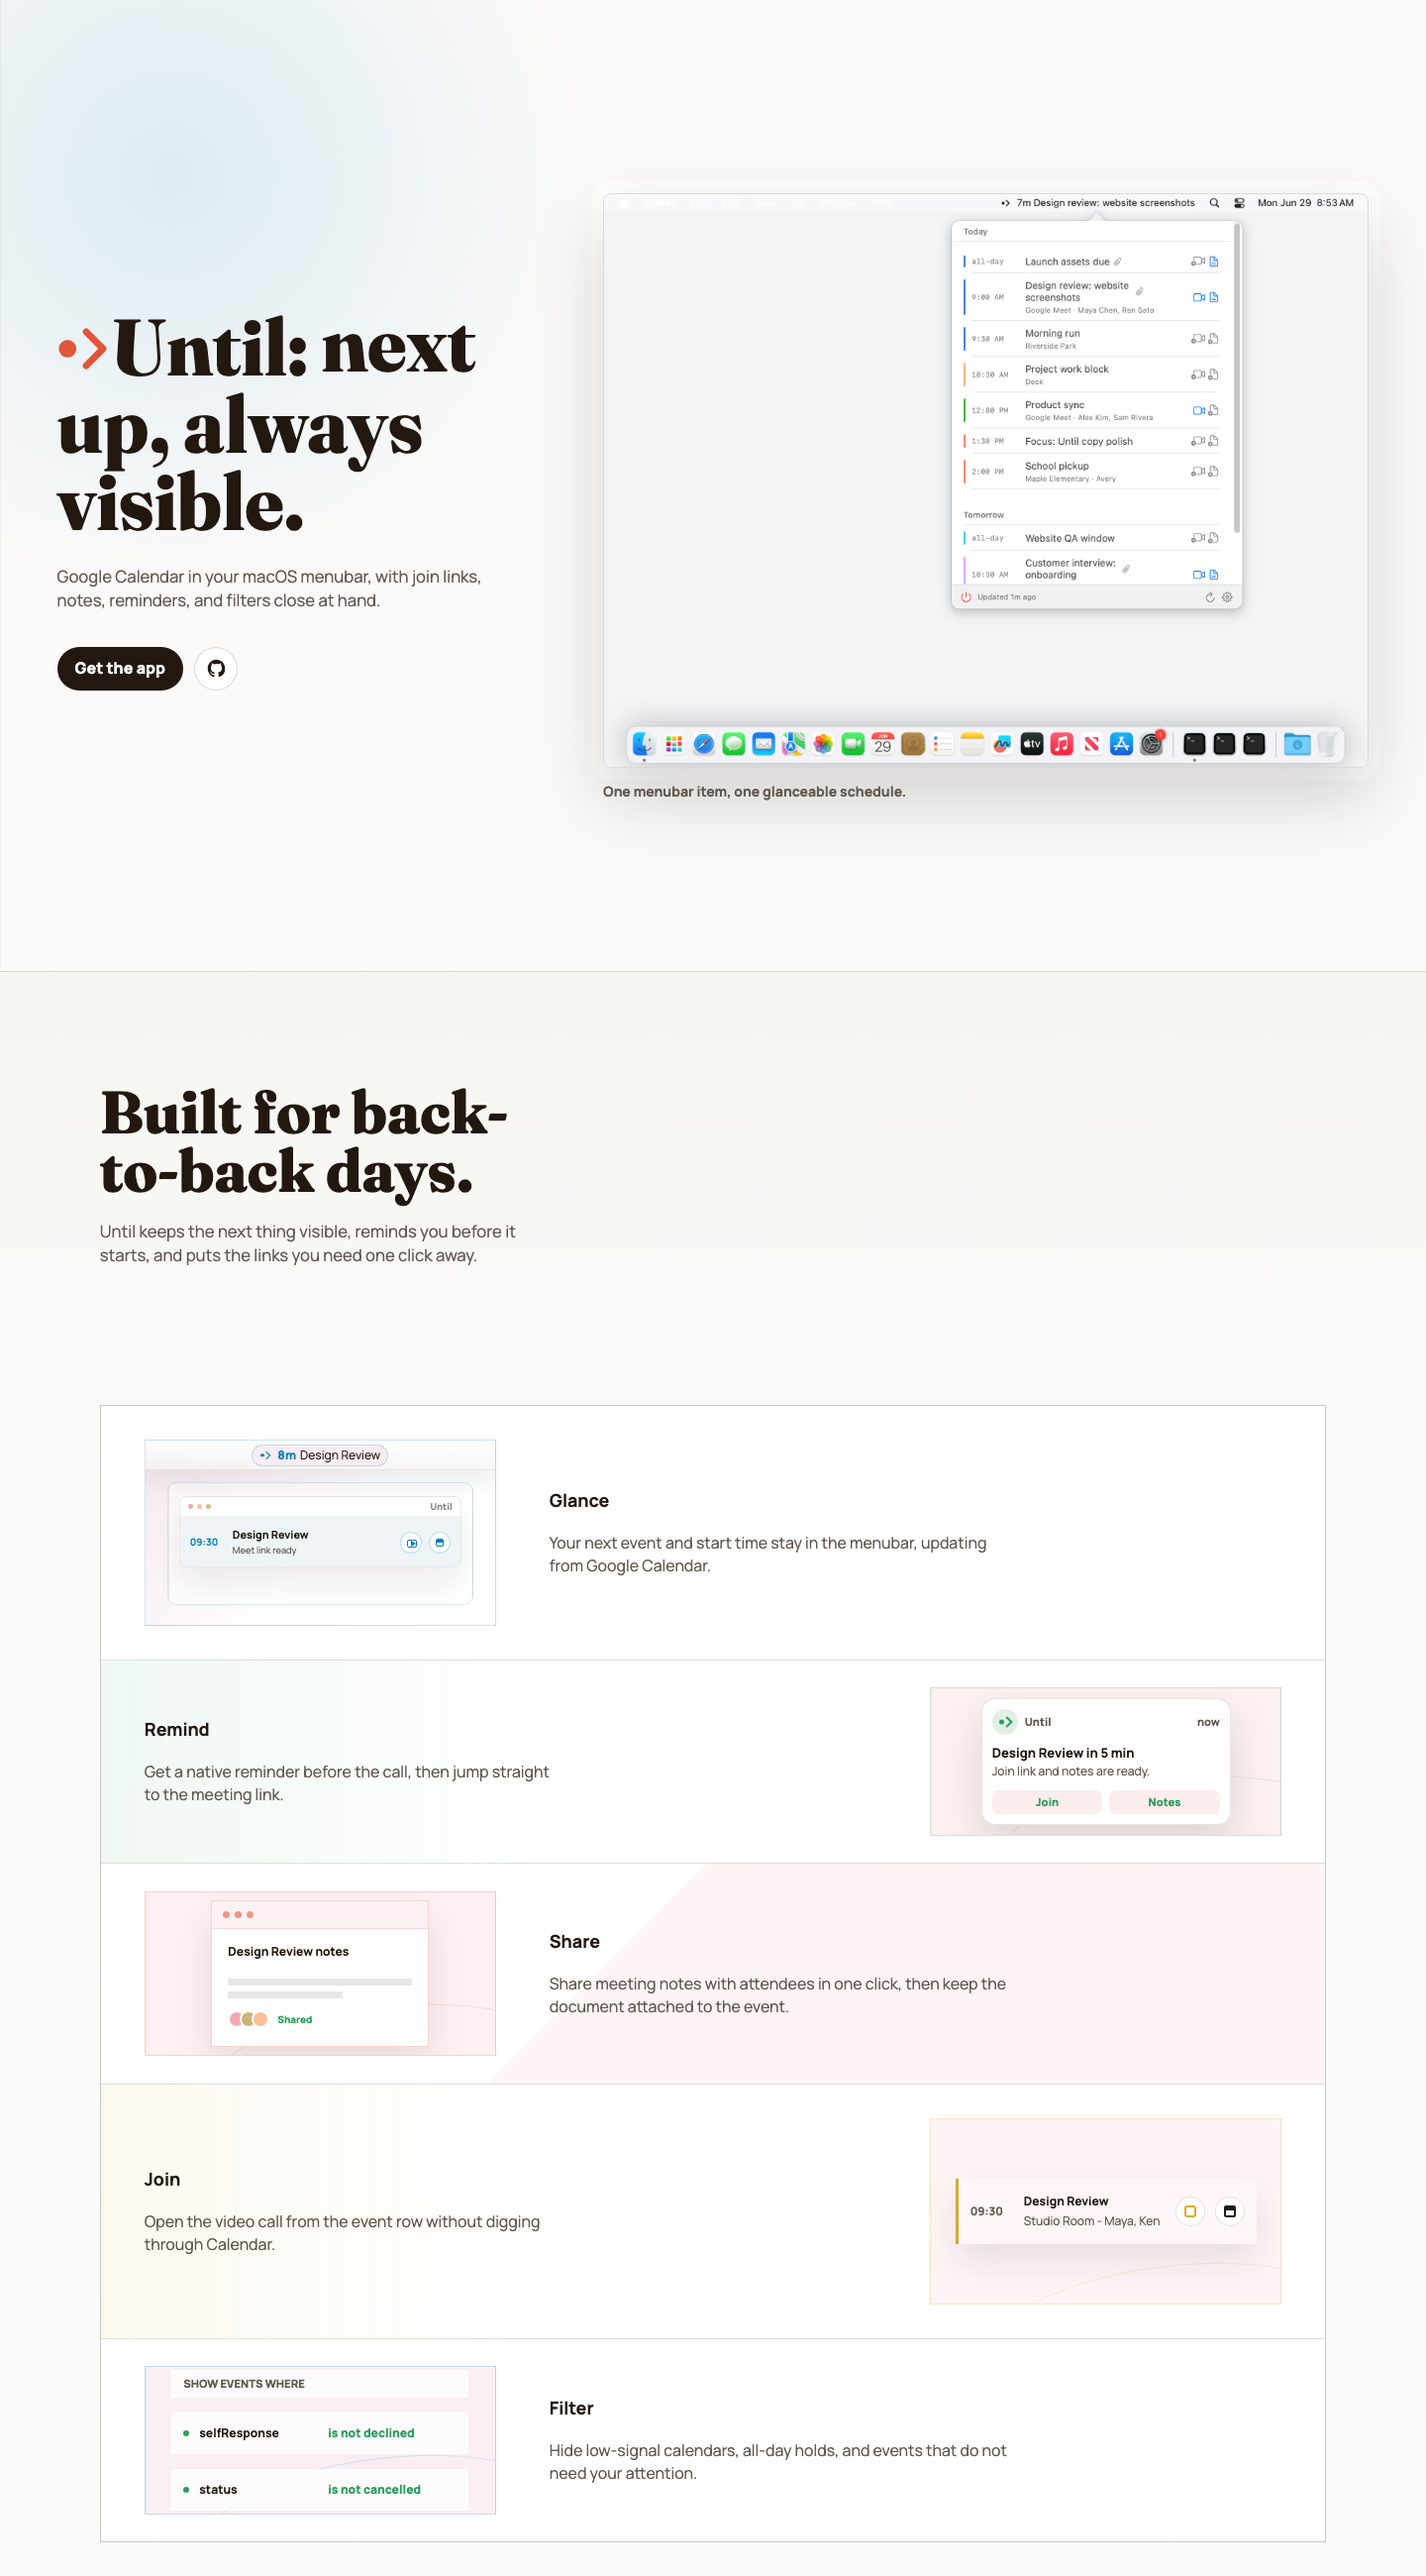
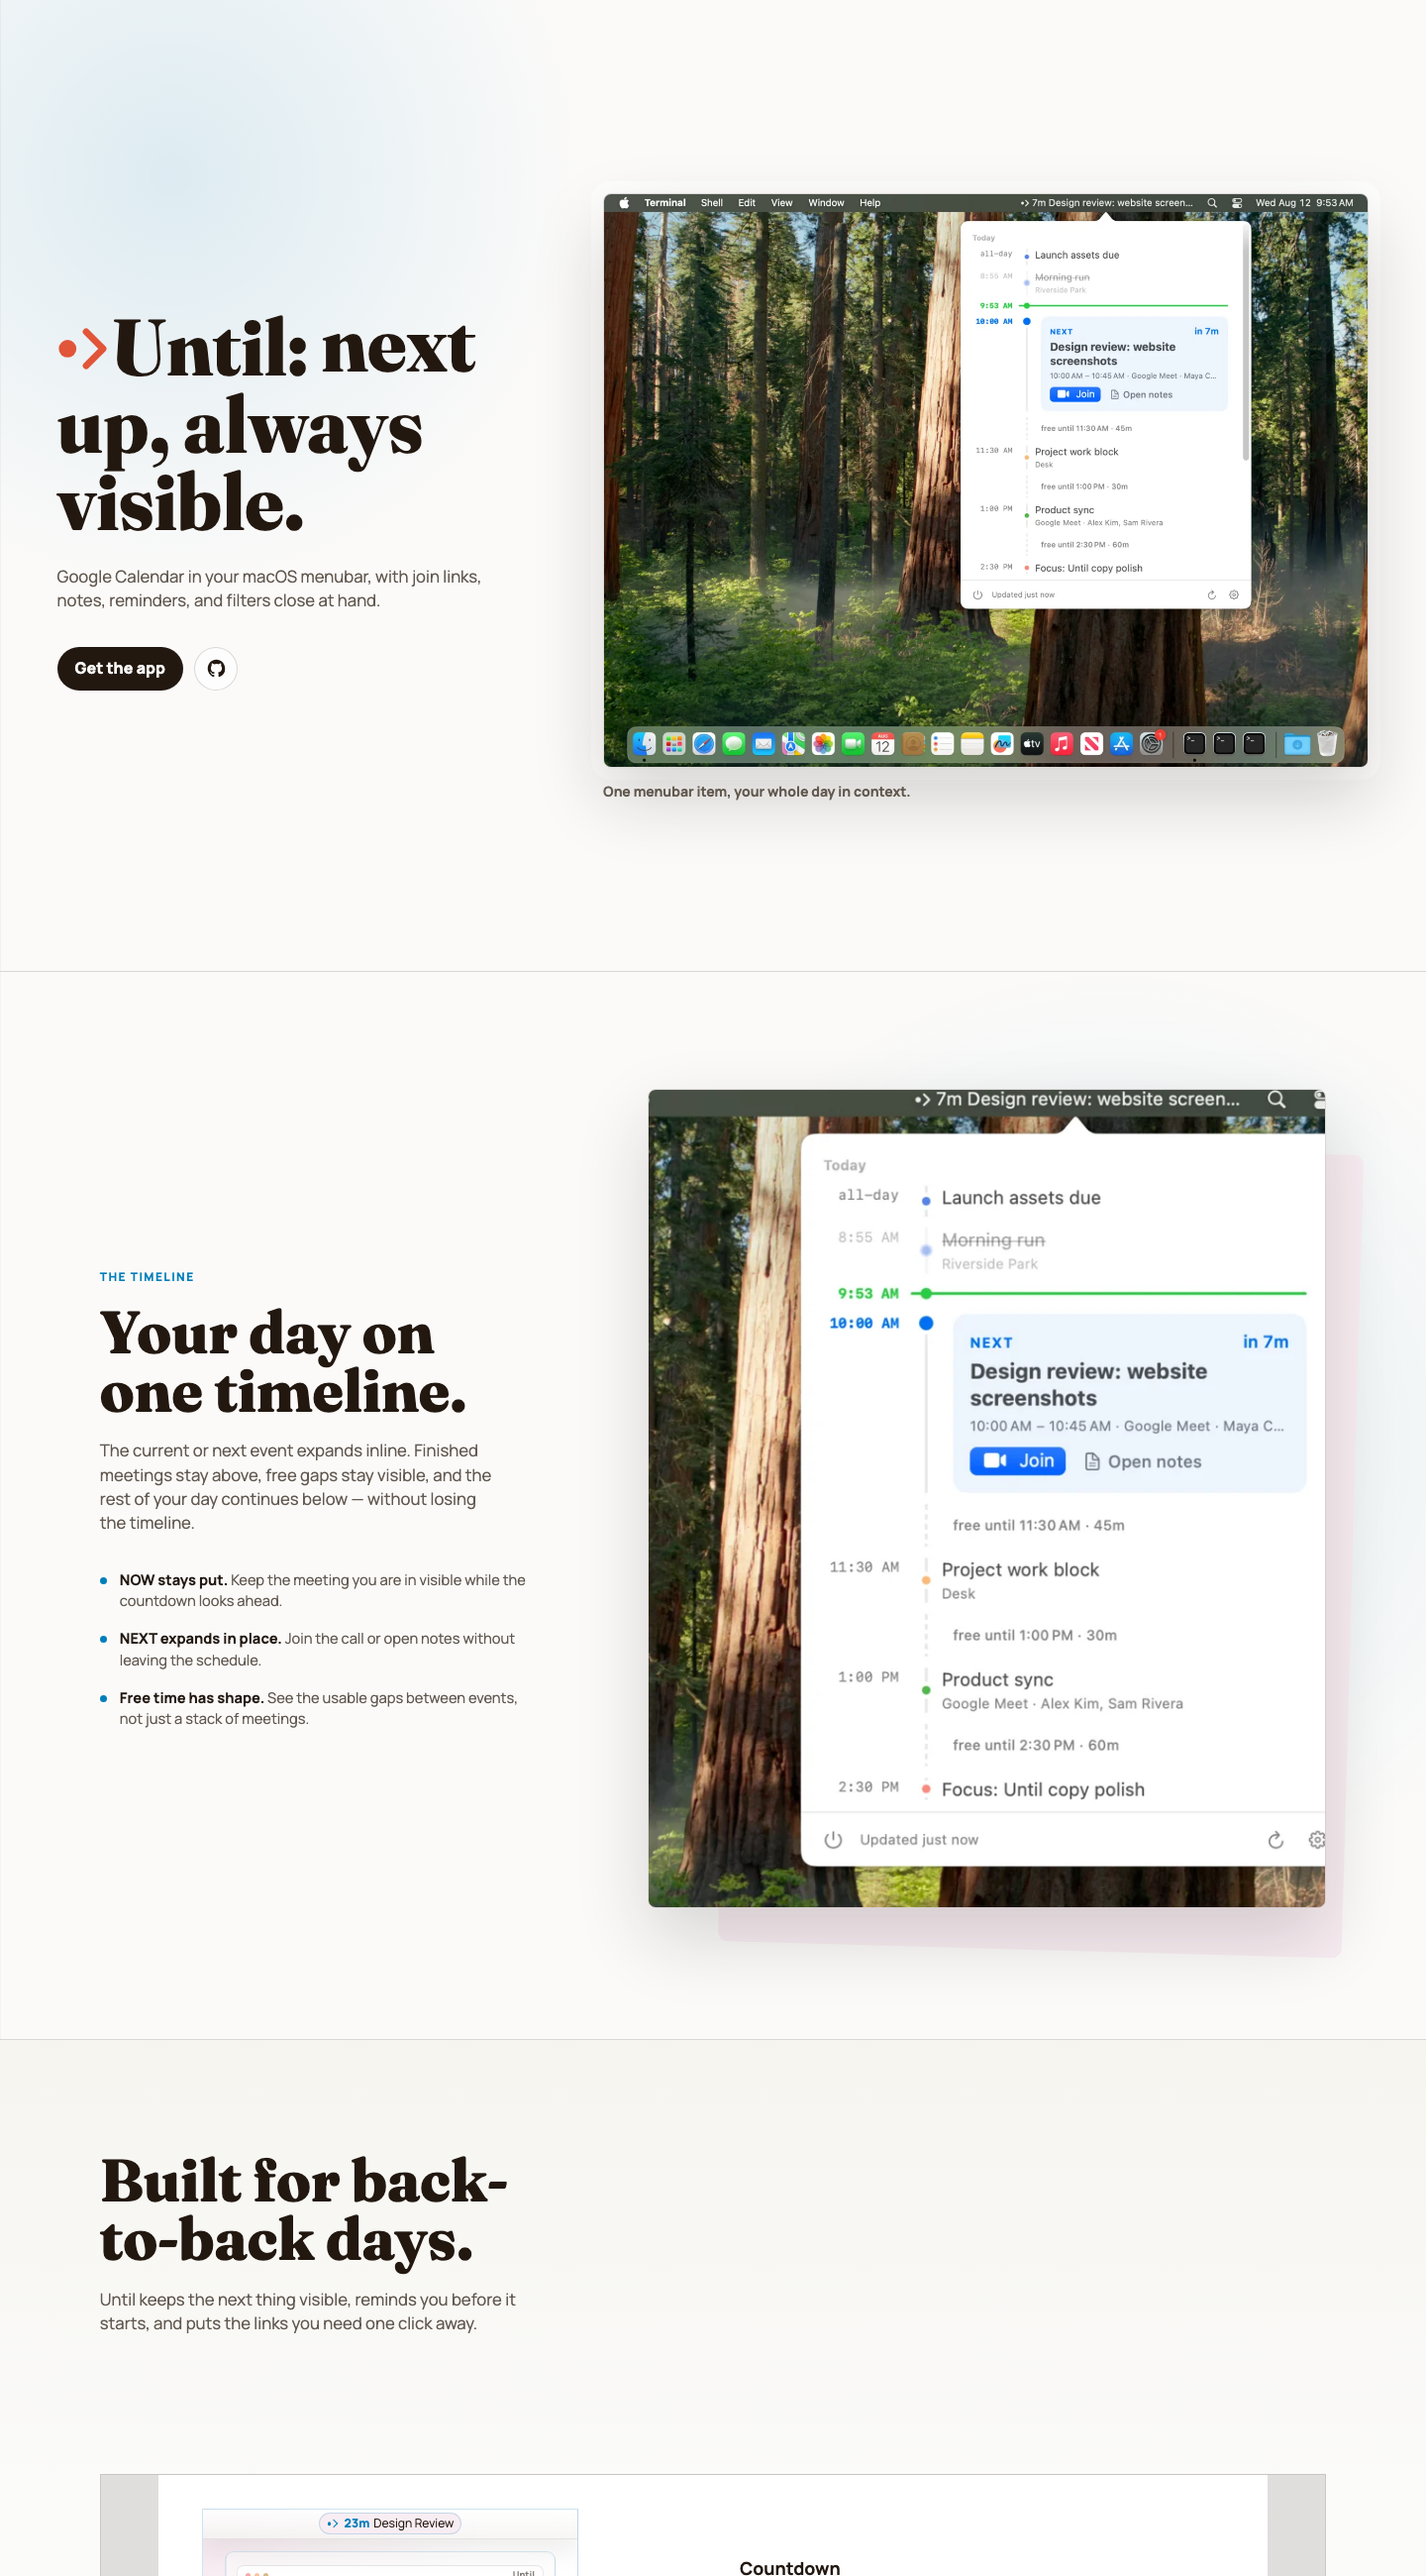
Refresh website for the continuous timeline

diff --git a/docs/index.html b/docs/index.html
@@ -6,35 +6,36 @@
     <title>Until - Google Calendar in your macOS menubar</title>
     <meta
       name="description"
-      content="Until keeps your next Google Calendar event in the macOS menubar, with quick join links, meeting notes, reminders, and precise event filters."
+      content="Until keeps your next Google Calendar event in the macOS menubar and shows your day on one continuous timeline, with quick join links, meeting notes, reminders, and precise filters."
     />
     <meta property="og:type" content="website" />
     <meta property="og:title" content="Until - Google Calendar in your macOS menubar" />
     <meta
       property="og:description"
-      content="Your next Google Calendar event, always in the menubar. One-click join, meeting notes, native reminders, precise filters. Private by design, and free."
+      content="Your next event stays in the macOS menubar while your whole day remains visible on one continuous timeline. One-click join, notes, reminders, and precise filters."
     />
     <meta property="og:image" content="https://combinatrix-ai.github.io/until/site-preview-desktop.png" />
     <meta property="og:image:width" content="1440" />
-    <meta property="og:image:height" content="1400" />
+    <meta property="og:image:height" content="900" />
     <meta property="og:url" content="https://combinatrix-ai.github.io/until/" />
     <meta name="twitter:card" content="summary_large_image" />
     <meta name="twitter:title" content="Until - Google Calendar in your macOS menubar" />
     <meta
       name="twitter:description"
-      content="Your next Google Calendar event, always in the menubar. One-click join, meeting notes, native reminders, precise filters. Private by design."
+      content="Your next event stays in the macOS menubar while your whole day remains visible on one continuous timeline. One-click join, notes, reminders, and precise filters."
     />
     <meta name="twitter:image" content="https://combinatrix-ai.github.io/until/site-preview-desktop.png" />
     <link rel="preconnect" href="https://fonts.googleapis.com" />
     <link rel="preconnect" href="https://fonts.gstatic.com" crossorigin />
     <link
-      href="https://fonts.googleapis.com/css2?family=Fraunces:opsz,wght@9..144,650;9..144,780&family=Manrope:wght@400;520;620;720;800&display=swap"
+      href="https://fonts.googleapis.com/css2?family=Fraunces:opsz,wght@9..144,650;9..144,780&amp;family=Manrope:wght@400;520;620;720;800&amp;display=swap"
       rel="stylesheet"
     />
-    <link rel="stylesheet" href="styles.css?v=20260705-refresh-2" />
+    <link rel="stylesheet" href="styles.css?v=20260809-timeline" />
     <script>document.documentElement.classList.add("js");</script>
   </head>
   <body>
+    <a class="skip-link" href="#main-content">Skip to content</a>
     <main id="top">
       <section class="hero" aria-labelledby="hero-title">
         <div class="hero-shell">
@@ -66,14 +67,40 @@
 
           <figure class="hero-shot">
             <img
-              src="anka-until-demo-popover-neutral.png"
-              width="1024"
-              height="768"
-              alt="Until open from the macOS menubar, showing the upcoming events popover."
+              src="until-timeline-hero.webp"
+              width="1440"
+              height="1080"
+              alt="Until open from the macOS menubar, showing the current time, an expanded next event, free gaps, and the rest of the day's events on one timeline."
             />
-            <figcaption>One menubar item, one glanceable schedule.</figcaption>
+            <figcaption>One menubar item, your whole day in context.</figcaption>
           </figure>
         </div>
+      </section>
+
+      <section class="timeline-story" id="main-content" aria-labelledby="timeline-title">
+        <div class="timeline-copy">
+          <p class="eyebrow">The timeline</p>
+          <h2 id="timeline-title">Your day on one timeline.</h2>
+          <p>
+            The current or next event expands inline. Finished meetings stay
+            above, free gaps stay visible, and the rest of your day continues
+            below &mdash; without losing the timeline.
+          </p>
+          <ul class="timeline-points">
+            <li><strong>NOW stays put.</strong> Keep the meeting you are in visible while the countdown looks ahead.</li>
+            <li><strong>NEXT expands in place.</strong> Join the call or open notes without leaving the schedule.</li>
+            <li><strong>Free time has shape.</strong> See the usable gaps between events, not just a stack of meetings.</li>
+          </ul>
+        </div>
+        <figure class="timeline-detail">
+          <img
+            src="until-timeline-detail.webp"
+            width="720"
+            height="870"
+            loading="lazy"
+            alt="A closer view of Until's continuous schedule timeline, with a green current-time line, expanded next-event card, and free-time gaps."
+          />
+        </figure>
       </section>
 
       <section class="workflow" id="workflow" aria-labelledby="workflow-title">
@@ -112,7 +139,7 @@
                 </div>
               </div>
             </div>
-            <h3>Glance</h3>
+            <h3>Countdown</h3>
             <p>Your next event stays in the menubar all day with a live countdown, then shows the time left once the meeting starts.</p>
           </article>
           <article>

diff --git a/docs/styles.css b/docs/styles.css
@@ -35,6 +35,24 @@ body {
   text-rendering: optimizeLegibility;
 }
 
+.skip-link {
+  position: fixed;
+  z-index: 4;
+  top: 12px;
+  left: 12px;
+  padding: 10px 14px;
+  border-radius: 6px;
+  background: var(--ink);
+  color: var(--paper);
+  font-weight: 800;
+  transform: translateY(-180%);
+  transition: transform 180ms ease;
+}
+
+.skip-link:focus {
+  transform: translateY(0);
+}
+
 a {
   color: inherit;
   text-decoration: none;
@@ -408,6 +426,102 @@ time {
   justify-content: space-between;
   padding: 10px 14px;
   background: color-mix(in oklch, var(--paper-2) 45%, transparent);
+}
+
+.timeline-story {
+  display: grid;
+  grid-template-columns: minmax(300px, 0.78fr) minmax(420px, 1.22fr);
+  gap: clamp(52px, 8vw, 118px);
+  align-items: center;
+  padding: 118px clamp(24px, 7%, 112px) 132px;
+  border-top: 1px solid var(--line);
+  background:
+    linear-gradient(90deg, color-mix(in oklch, var(--ink) 3%, transparent) 0 1px, transparent 1px 92px),
+    radial-gradient(circle at 78% 44%, color-mix(in oklch, var(--blue) 9%, transparent), transparent 30rem),
+    var(--paper);
+}
+
+.timeline-copy {
+  width: min(100%, 540px);
+  justify-self: end;
+}
+
+.eyebrow {
+  margin-bottom: 18px;
+  color: var(--blue);
+  font-size: 0.74rem;
+  font-weight: 800;
+  letter-spacing: 0.12em;
+  text-transform: uppercase;
+}
+
+.timeline-copy h2 {
+  max-width: 10ch;
+  text-wrap: balance;
+}
+
+.timeline-copy > p:not(.eyebrow) {
+  max-width: 50ch;
+  color: var(--muted);
+  font-size: 1.05rem;
+  text-wrap: pretty;
+}
+
+.timeline-points {
+  display: grid;
+  gap: 17px;
+  margin: 34px 0 0;
+  padding: 0;
+  list-style: none;
+}
+
+.timeline-points li {
+  position: relative;
+  max-width: 48ch;
+  padding-left: 20px;
+  color: var(--muted);
+  font-size: 0.92rem;
+}
+
+.timeline-points li::before {
+  content: "";
+  position: absolute;
+  left: 0;
+  top: 0.54em;
+  width: 7px;
+  height: 7px;
+  border-radius: 50%;
+  background: var(--blue);
+}
+
+.timeline-points strong {
+  color: var(--ink);
+}
+
+.timeline-detail {
+  position: relative;
+  width: min(100%, 720px);
+  margin: 0;
+  justify-self: start;
+}
+
+.timeline-detail::before {
+  content: "";
+  position: absolute;
+  inset: 7% -4% -5% 12%;
+  border-radius: 10px;
+  background: color-mix(in oklch, var(--blue) 10%, var(--white));
+  transform: rotate(1.6deg);
+}
+
+.timeline-detail img {
+  position: relative;
+  display: block;
+  width: 100%;
+  height: auto;
+  border: 1px solid color-mix(in oklch, var(--ink) 14%, transparent);
+  border-radius: 8px;
+  box-shadow: 0 30px 72px color-mix(in oklch, var(--ink) 16%, transparent);
 }
 
 .workflow {
@@ -1406,7 +1520,8 @@ ul.legal-lead {
 
 @media (max-width: 980px) {
   .hero-shell,
-  .workflow {
+  .workflow,
+  .timeline-story {
     grid-template-columns: 1fr;
   }
 
@@ -1445,6 +1560,11 @@ ul.legal-lead {
 
   .privacy-points {
     grid-template-columns: 1fr;
+  }
+
+  .timeline-copy,
+  .timeline-detail {
+    justify-self: center;
   }
 
 }
@@ -1549,6 +1669,20 @@ ul.legal-lead {
   .workflow {
     display: block;
     padding: 76px 18px;
+  }
+
+  .timeline-story {
+    display: block;
+    padding: 76px 18px 88px;
+  }
+
+  .timeline-copy {
+    margin-inline: auto;
+  }
+
+  .timeline-detail {
+    width: min(88%, 520px);
+    margin: 54px auto 0;
   }
 
   .workflow-grid {
